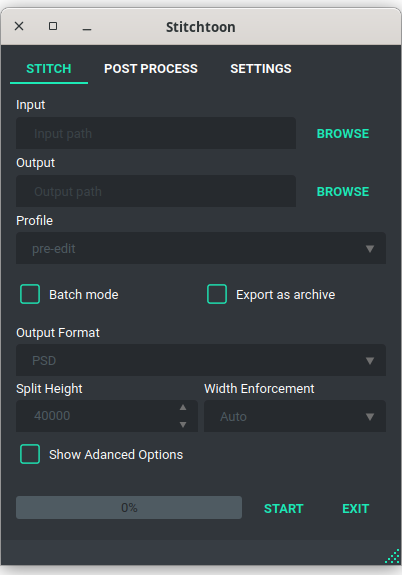
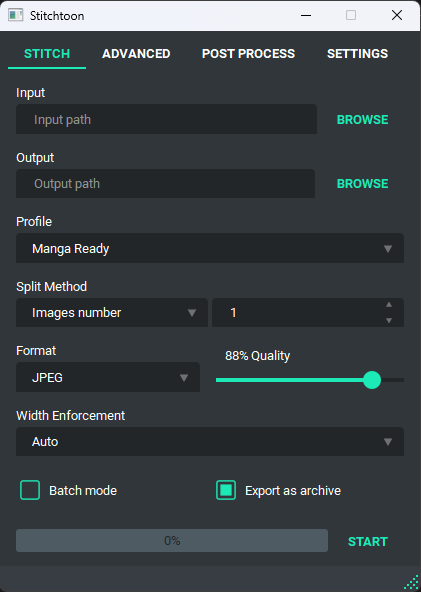
updated readme and screenshot

diff --git a/README.md b/README.md
@@ -1,20 +1,36 @@
-# StitchToon Gui
+# Stitchtoon Gui
+
 Graphical user interface for [stitchtoon](https://github.com/BishrGhalil/stitchtoon) written in Python and Qt6.
 
-> This project is under development and shouldn't be used as a production ready app.
-
-## Features
-- export as archive
-- better output handling
-- size limites for defferent output formats
-- multiple themes 
+## Features over SmartStitch
+Stitchtoon is a fork of SmartStitch, However it offers much more features like:
+- An option to split into a specific number of images.
+- Auto conversion between `PSD` and `PSB` when maximum size exceeded.
+- Batch mode is optional.
+- Better code which is easier to maintain.
+- Better errors handling, It won't simply fail without telling you why.
+- Better logs, disabled by default.
+- Better output names, It won't output as `[stitched]`.
+- Better progress bar.
+- Dark and light themes with multiple accents.
+- Environment variables in post-process arguments.
+- Export as archive.
+- New mode for width enforcement.
+- Post-process output will be shown.
+- Tools Tips all over the interface.
+- Transparency support.
 
 ### Screenshots
 ![stitch tab](.github/screenshots/home.png)
 
-## Install
 
-Build from source
+## Download
+
+### Windows
+You can find installers and portables on the [releases](https://github.com/BishrGhalil/stitchtoon-gui/releases) page.
+
+### Linux, MacOS
+Install from source
 ```
 git clone https://github.com/BishrGhalil/stitchtoon-gui
 cd stitchtoon-gui
@@ -23,5 +39,27 @@ pip install .
 stitchtoon-gui
 ```
 
-#### TODO
-- [ ] Settings handling
+## Help
+
+**Request a feature**
+
+You are welcome to request a feature by reporting an [issue](https://github.com/BishrGhalil/stitchtoon-gui/issues) for any feature request.
+
+**When something goes wrong:**
+- Try to reset the settings by following this steps:
+
+    - Windows:
+    open a powershell in the executable directory then:
+    `stitchtoon.exe --reset`
+
+
+    - Linux and MacOS:
+    `stitchtoon-gui --reset`
+
+- Or run in debug mode and report an [issue](https://github.com/BishrGhalil/stitchtoon-gui/issues) with the log file.
+    - Windows: navigate to the executable directory and run:
+    `stitchtoon.exe --debug`
+    reproduce the error and a log file will be located at your `Desktop`
+    - Linux and MacOS:
+    `stitchtoon-gui --debug`
+    reproduce the error and a log file will be located at your `$HOME`
